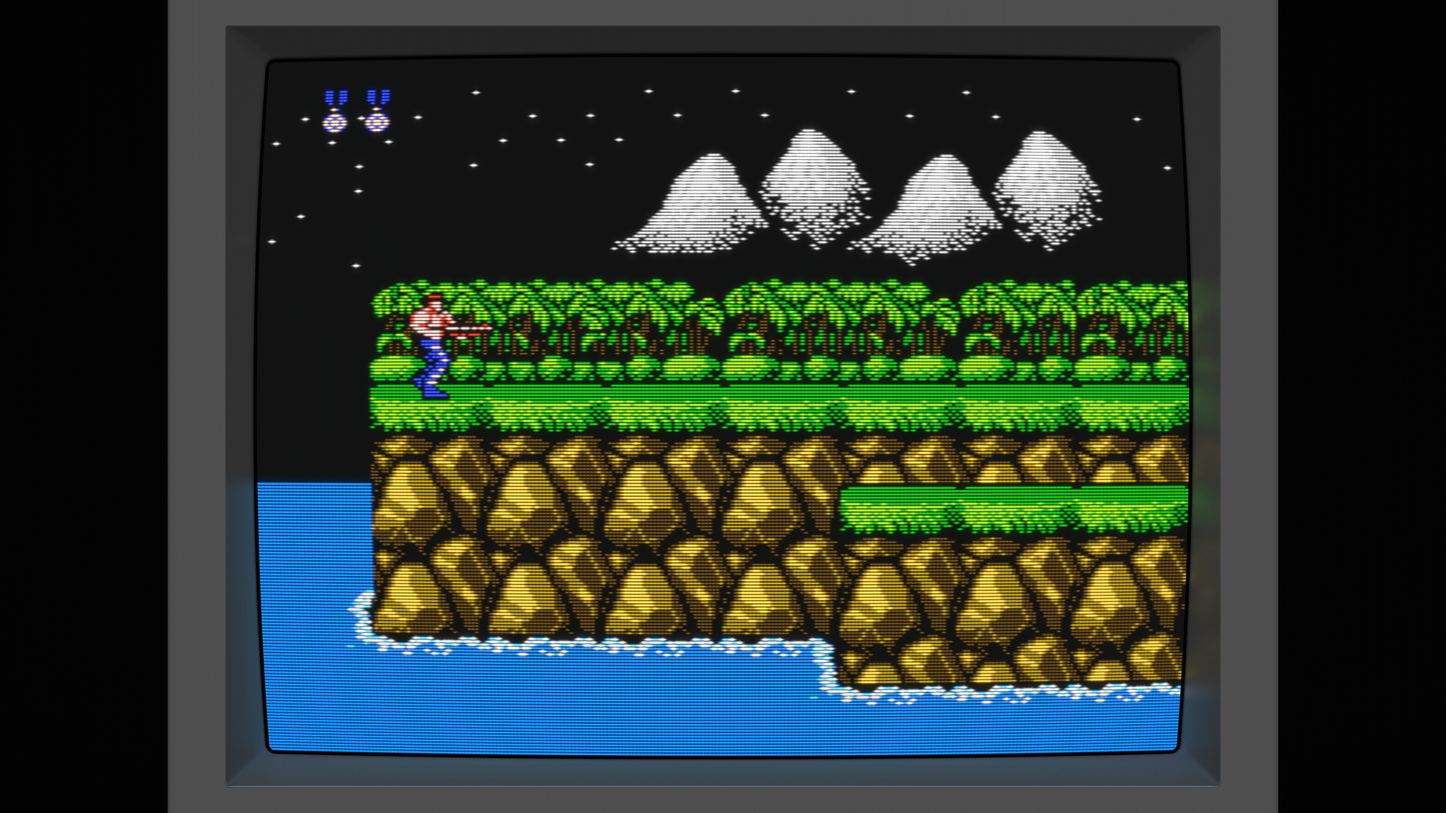
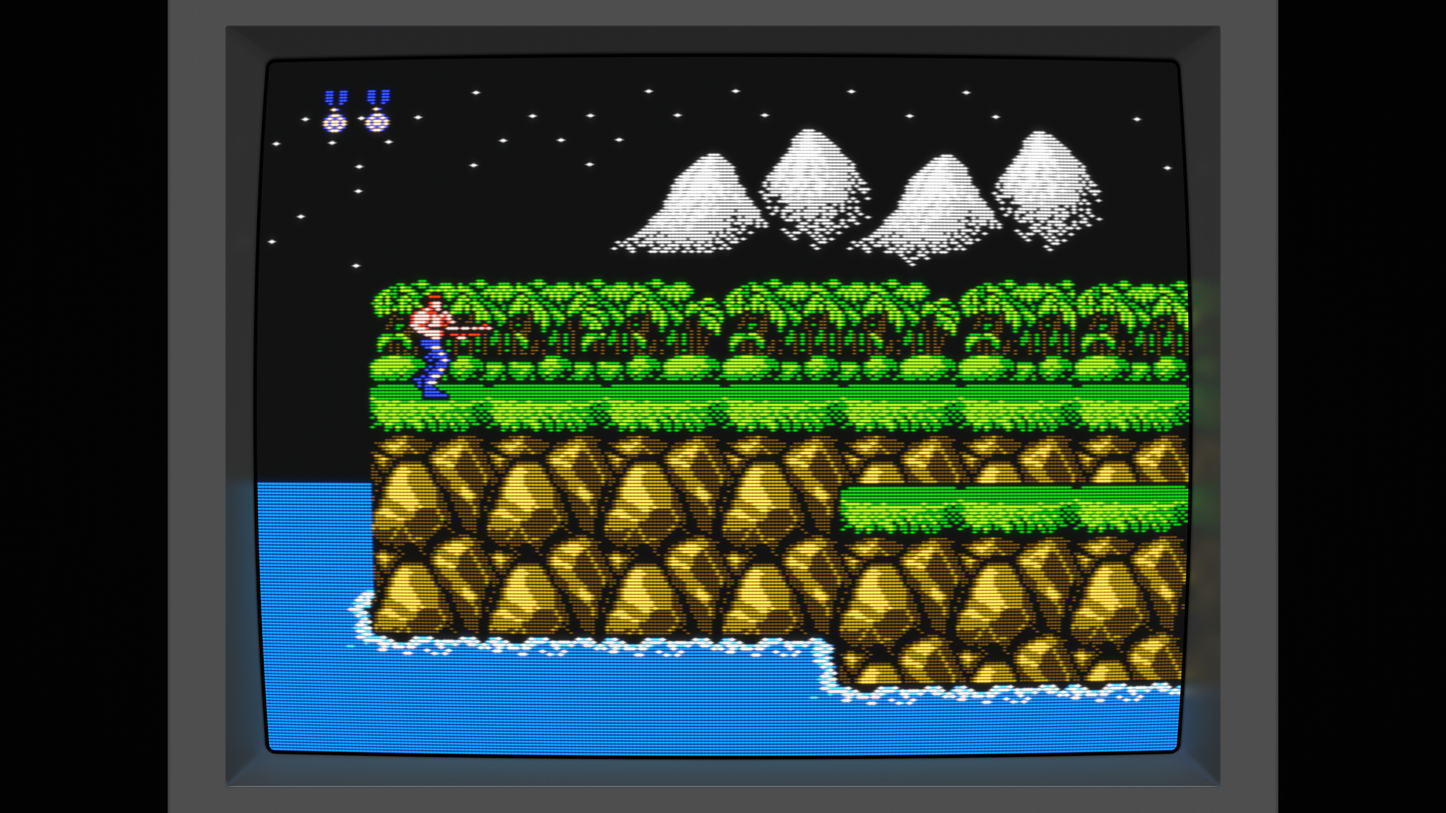
Address review: scanline envelope, energy-conserving persistence, docs
- 02-beam-v: the scan_gamma envelope uses each line's actual spot size
  (space charge included), so gaps that bright lines fill are no longer
  pushed back down; scan_gamma is documented as an aesthetic knob
- 05-persist: out = (1-d)*emission + d*prev instead of a max() peak hold,
  so trails add to the new picture and stills keep their brightness; the
  per-frame decay is rescaled to the real refresh rate (OriginalFPS x
  TotalSubFrames)
- interlace_off: described as perceptual (P22 keeps only a few percent
  after one field), not as phosphor persistence
- comparison sheets re-shot with DC_ROOM_LIGHT 0 so every tile sits on
  pure black; README screenshots re-rendered

diff --git a/tools/crt-studio.html b/tools/crt-studio.html
@@ -269,7 +269,7 @@ const SLIDERS = [
   ["__g_crtbeam","Beam & mask","crt"],
   ["gammaGun","gun gamma (GAMMA_GUN)",1.8,3.0,0.05,2.25,null,"electron-gun V-I power law: overall contrast"],
   ["sigmaV","beam σ vertical (SIGMA0)",0.10,0.90,0.01,0.14,null,"spot height at zero current: scanline thickness"],
-  ["scanG","scanline contrast (SCAN_GAMMA)",1.0,3.0,0.05,1.25],
+  ["scanG","scanline contrast (SCAN_GAMMA)",1.0,3.0,0.05,1.25,null,"aesthetic, outside the physical chain: deepens the dark gaps between scanlines (gaps filled by bright lines stay filled)"],
   ["sigmaH","beam σ horizontal (SIGMA_H)",0.15,1.20,0.01,0.25,null,"horizontal softness / bandwidth"],
   ["ksc","bloom — space charge k (K_SC)",0.0,2.0,0.05,0.80,null,"how much bright areas fatten"],
   ["alphaSc","bloom curve α (ALPHA_SC)",0.3,1.0,0.05,0.40],
@@ -662,9 +662,10 @@ void main(){vec2 fc=gl_FragCoord.xy,uv=fc/uRes;vec2 src=vec2(textureSize(uSrc,0)
   float spx=uv.x*cols,sfx=fract(spx);int six=int(floor(spx));float spy=uv.y*rows,sfy=fract(spy);int siy=int(floor(spy));
   vec3 col=vec3(0.);
   for(int ix=-MRH;ix<=MRH;ix++){vec3 V=vconv(six+ix,sfy,siy,cols,rows,el);float sgx=sig(uSigH,dot(V,LUMA));col+=V*bw(float(ix)+0.5-sfx,sgx);}
-  // Stage 3c scanline contrast: peak-normalized vertical envelope (=1 on a line),
-  // raised to (scanG-1) -> deepens the gap, leaves the round peak untouched.
-  float env=0.,sge=uSigV*el; for(int iy=-MRV;iy<=MRV;iy++){float dy=float(iy)+0.5-sfy;env=max(env,exp(-(dy*dy)/(2.*sge*sge)));}
+  // scanline contrast (aesthetic): peak-normalized envelope from each line's ACTUAL spot (space charge
+  // included, = 02-beam-v), raised to (scanG-1) -> deepens only the gaps that are really dark
+  float env=0.; for(int iy=-MRV;iy<=MRV;iy++){vec3 Ie=gun(texture(uSrc,vec2((float(six)+0.5)/cols,(float(siy+iy)+0.5)/rows)).rgb);
+    float sge=sig(uSigV,dot(Ie,LUMA))*el,dy=float(iy)+0.5-sfy;env=max(env,exp(-(dy*dy)/(2.*sge*sge)));}
   col*=pow(env,max(uScanG-1.,0.));
   col*=grille(fc); col=col*(1.0+1.0/uEsat)/(1.0+col/uEsat)*uBright;
   o=vec4(col,1.);}`;
